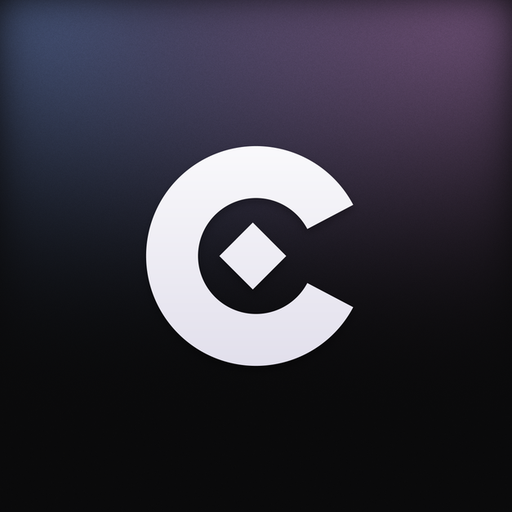
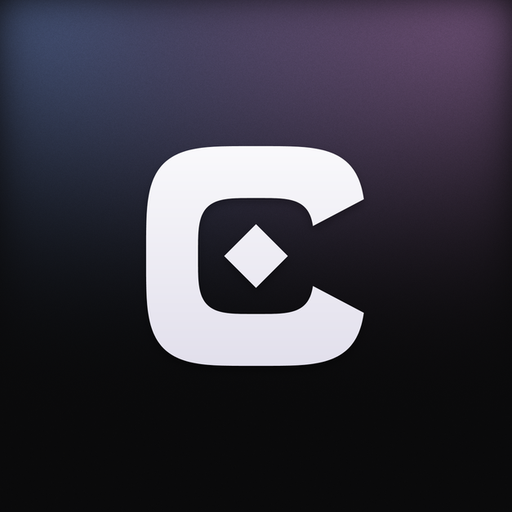
Mark: rounded-square C, even stroke, diamond dead centre
The owner wanted it not a circle and not lopsided: the C is now a squircle
ring (|x|^4+|y|^4), concentric so the stroke is even, and the diamond sits
exactly at the centre. Tests pin both.

diff --git a/src/components/__tests__/brandMark.test.tsx b/src/components/__tests__/brandMark.test.tsx
@@ -1,5 +1,5 @@
 // The logo is /logo.png; if it fails to load, BrandLogo draws the same mark inline. Both come from
-// scripts/make-icons.py: the round C (outer circle, inner circle and right-hand wedge masked out)
+// scripts/make-icons.py: the rounded-square C (outer squircle, inner squircle and right-hand wedge masked out)
 // with the diamond control point inside it. /mark.png is the same mark bare, for BrandGlyph.
 import { readdirSync, readFileSync } from 'node:fs';
 import { join } from 'node:path';
@@ -49,33 +49,42 @@ describe('BrandLogo', () => {
     expect(offenders).toEqual([]);
   });
 
-  it('falls back to the round C: outer circle, inner circle and mouth wedge', () => {
+  it('falls back to the rounded-square C: outer squircle, inner squircle and mouth wedge', () => {
     const mask = renderFallback().querySelector('mask')!;
-    const [outer, inner] = [...mask.querySelectorAll('circle')];
-    const mouth = mask.querySelector('polygon')!;
-    expect(mask.querySelectorAll('circle')).toHaveLength(2);
-    expect(mask.querySelectorAll('polygon')).toHaveLength(1);
+    const [outer, inner, mouth] = [...mask.querySelectorAll('polygon')];
+    expect(mask.querySelectorAll('polygon')).toHaveLength(3);
+    expect(mask.querySelector('circle')).toBeNull(); // not a circle
     expect([outer, inner, mouth].map((p) => p.getAttribute('fill'))).toEqual(['#fff', '#000', '#000']);
-    const c = (el: Element) => ['cx', 'cy', 'r'].map((k) => Number(el.getAttribute(k)));
-    const [ox, oy, R] = c(outer), [ix, iy, r] = c(inner);
-    // Concentric, with a real stroke all round.
-    expect([ix, iy]).toEqual([ox, oy]);
-    expect(r).toBeGreaterThan(0);
-    expect(R - r).toBeGreaterThan(R * 0.3);
-    // The mouth starts in the bowl and cuts right through the ring's right-hand side, so it is open.
+    const o = points(outer), i = points(inner);
+    // The inner squircle sits inside the outer one, so the C has a stroke all round.
+    for (const p of i) expect(insideConvex(p, o)).toBe(true);
+    // Squircle, not circle: the corner (on the diagonal) reaches well past a circle's radius.
+    const half = (Math.max(...o.map(([x]) => x)) - Math.min(...o.map(([x]) => x))) / 2;
+    const corner = Math.max(...o.map(([x, y]) => Math.hypot(x - 50, y - 50)));
+    expect(corner).toBeGreaterThan(half * 1.1);
+    // The mouth starts in the bowl and cuts right through the C's right-hand side, so it is open.
     const [apex, ...far] = points(mouth);
-    expect(Math.hypot(apex[0] - ix, apex[1] - iy)).toBeLessThan(r);
-    for (const [x] of far) expect(x).toBeGreaterThanOrEqual(ox + R);
+    expect(insideConvex(apex, i)).toBe(true);
+    const right = Math.max(...o.map(([x]) => x));
+    for (const [x] of far) expect(x).toBeGreaterThanOrEqual(right);
   });
 
-  it('puts the diamond control point inside the C', () => {
+  it('keeps the mark even: both squircles and the diamond share one centre', () => {
     const svg = renderFallback();
-    const inner = svg.querySelectorAll('mask circle')[1];
-    const [cx, cy, r] = ['cx', 'cy', 'r'].map((k) => Number(inner.getAttribute(k)));
+    const [outer, inner] = [...svg.querySelectorAll('mask polygon')].map(points);
     const diamond = points(svg.querySelector(':scope > g > polygon')!);
+    const centre = (pts: Pt[]) => {
+      const xs = pts.map(([x]) => x), ys = pts.map(([, y]) => y);
+      return [(Math.min(...xs) + Math.max(...xs)) / 2, (Math.min(...ys) + Math.max(...ys)) / 2];
+    };
+    for (const pts of [outer, inner, diamond]) {
+      const [x, y] = centre(pts);
+      expect(x).toBeCloseTo(50, 1);
+      expect(y).toBeCloseTo(50, 1);
+    }
     expect(diamond).toHaveLength(4);
     // Every corner inside the bowl, so it never touches the stroke.
-    for (const [x, y] of diamond) expect(Math.hypot(x - cx, y - cy)).toBeLessThan(r);
+    for (const p of diamond) expect(insideConvex(p, inner)).toBe(true);
   });
 });
 

diff --git a/src/components/BrandMark.tsx b/src/components/BrandMark.tsx
@@ -9,8 +9,8 @@ export const MARK_SRC = '/mark.png?v=8';
 /**
  * BrandMark — the Control Point logo slot.
  *
- * The logo is `public/logo.png` (Control Scout's v8 icon family: a round "C" cut
- * open by a crisp wedge, with the control point, a diamond, inside it; soft white on
+ * The logo is `public/logo.png` (Control Scout's v8 icon family: a rounded-square
+ * "C" cut open by a crisp wedge, with the control point, a diamond, inside it; soft white on
  * the near-black tile with the slate-to-mauve wash; drawn by scripts/make-icons.py).
  * If it fails to load, the same mark renders inline as SVG.
  *
@@ -33,9 +33,9 @@ export function BetaBadge({ className }: { className?: string }) {
   );
 }
 
-/** The mark alone (the round C and its diamond point) filling its box, in the icon's soft-white ink.
+/** The mark alone (the rounded-square C and its diamond point) filling its box, in the icon's soft-white ink.
  *  Shapes from scripts/make-icons.py (mark_shapes), scaled to the 100-unit box: the C is the outer
- *  circle with the inner circle and the right-hand wedge masked out. */
+ *  squircle with the inner squircle and the right-hand wedge masked out; the diamond is dead centre. */
 function MarkSvg() {
   const id = useId().replace(/:/g, '');
   const ink = `cp-ink-${id}`, cut = `cp-cut-${id}`;
@@ -47,14 +47,14 @@ function MarkSvg() {
           <stop offset="1" stopColor="#dcd9e8" />
         </linearGradient>
         <mask id={cut} maskUnits="userSpaceOnUse" x="0" y="0" width="100" height="100">
-          <circle cx="50" cy="50" r="27.51" fill="#fff" />
-          <circle cx="50" cy="50" r="14.51" fill="#000" />
+          <polygon points="77.51,50.00 77.39,59.94 77.04,64.00 76.44,67.02 75.60,69.45 74.51,71.47 73.13,73.13 71.47,74.51 69.45,75.60 67.02,76.44 64.00,77.04 59.94,77.39 50.00,77.51 40.06,77.39 36.00,77.04 32.98,76.44 30.55,75.60 28.53,74.51 26.87,73.13 25.49,71.47 24.40,69.45 23.56,67.02 22.96,64.00 22.61,59.94 22.49,50.00 22.61,40.06 22.96,36.00 23.56,32.98 24.40,30.55 25.49,28.53 26.87,26.87 28.53,25.49 30.55,24.40 32.98,23.56 36.00,22.96 40.06,22.61 50.00,22.49 59.94,22.61 64.00,22.96 67.02,23.56 69.45,24.40 71.47,25.49 73.13,26.87 74.51,28.53 75.60,30.55 76.44,32.98 77.04,36.00 77.39,40.06" fill="#fff" />
+          <polygon points="64.51,50.00 64.45,55.24 64.26,57.38 63.95,58.98 63.51,60.26 62.93,61.32 62.20,62.20 61.32,62.93 60.26,63.51 58.98,63.95 57.38,64.26 55.24,64.45 50.00,64.51 44.76,64.45 42.62,64.26 41.02,63.95 39.74,63.51 38.68,62.93 37.80,62.20 37.07,61.32 36.49,60.26 36.05,58.98 35.74,57.38 35.55,55.24 35.49,50.00 35.55,44.76 35.74,42.62 36.05,41.02 36.49,39.74 37.07,38.68 37.80,37.80 38.68,37.07 39.74,36.49 41.02,36.05 42.62,35.74 44.76,35.55 50.00,35.49 55.24,35.55 57.38,35.74 58.98,36.05 60.26,36.49 61.32,37.07 62.20,37.80 62.93,38.68 63.51,39.74 63.95,41.02 64.26,42.62 64.45,44.76" fill="#000" />
           <polygon points="50,50 100,23.68 100,76.32" fill="#000" />
         </mask>
       </defs>
       <g fill={`url(#${ink})`}>
         <rect width="100" height="100" mask={`url(#${cut})`} />
-        <polygon points="49.2,41.63 57.58,50 49.2,58.37 40.83,50" />
+        <polygon points="50,42.03 57.97,50 50,57.97 42.03,50" />
       </g>
     </svg>
   );

diff --git a/scripts/make-icons.py b/scripts/make-icons.py
@@ -6,8 +6,9 @@ so a re-run with no code change leaves every file byte-identical.
 The tile is a sibling of Control Scout's v8 icon (control-scout scripts/brand-icon.mjs):
 the same near-black tile with the same wash of three glows along the top edge, the
 same fine grain, and the mark in the same soft white with a soft shadow. The mark is
-Control Point's own: a round C cut open by a crisp wedge (sharp, radial ends), with the
-control point (a diamond) inside it, so it does not read as Scout's C with its needle.
+Control Point's own: a rounded-square C (a squircle ring, even stroke all round) cut open
+on the right by a crisp wedge, with the control point (a diamond) dead centre, so it does
+not read as Scout's C with its needle.
 
 Geometry is in units of 1/1254 of the tile's width (the master's size).
 
@@ -40,24 +41,36 @@ GRAIN = 0.07
 MASTER = 1254  # the master's size, as Scout's, so the grain has the same scale
 SEED = 8
 
-# The mark: a round C (a ring, opened on the right by a wedge from the centre, so its ends
-# are sharp radial cuts) with the control point, a diamond, in the middle.
+# The mark: a rounded-square C (a squircle ring, |x|^4 + |y|^4 = r^4, concentric so the
+# stroke is even, opened on the right by a wedge from the centre, so its ends are sharp
+# cuts) with the control point, a diamond, at the exact centre.
 # Units: 1/1254 of the tile.
 U = 1 / 1254
 CX = CY = 627
-OUTER = 345  # ring radii
+OUTER = 345  # squircle half-sizes
 INNER = 182
+SQUIRCLE = 4  # the exponent: 2 is a circle, higher is boxier
 MOUTH = 330  # the wedge's half-height at the tile's right edge
-POINT = (617, 627, 105)  # diamond centre x, y, half-diagonal
+POINT = (CX, CY, 100)  # diamond centre x, y, half-diagonal
 
 
-def mark_shapes() -> list[tuple[str, object, int]]:
-    """The mark in tile units (0..1254), painted in order: 255 adds, 0 cuts.
-    ("circle", radius) is centred on the tile; ("poly", points) is a polygon."""
+def squircle(r: float, n: int = 256) -> list[tuple[float, float]]:
+    """A squircle of half-size r centred on the tile, as an n-point polygon."""
+    e = 2 / SQUIRCLE
+    pts = []
+    for i in range(n):
+        t = 2 * np.pi * i / n
+        c, s = np.cos(t), np.sin(t)
+        pts.append((CX + r * np.sign(c) * abs(c) ** e, CY + r * np.sign(s) * abs(s) ** e))
+    return pts
+
+
+def mark_shapes() -> list[tuple[str, list[tuple[float, float]], int]]:
+    """The mark as polygons in tile units (0..1254), painted in order: 255 adds, 0 cuts."""
     px, py, pr = POINT
     return [
-        ("circle", OUTER, 255),
-        ("circle", INNER, 0),
+        ("poly", squircle(OUTER), 255),
+        ("poly", squircle(INNER), 0),
         ("poly", [(CX, CY), (1254, CY - MOUTH), (1254, CY + MOUTH)], 0),
         ("poly", [(px, py - pr), (px + pr, py), (px, py + pr), (px - pr, py)], 255),
     ]
@@ -71,12 +84,8 @@ def mark_mask(size: int, scale: float = 1.0, ss: int = 8) -> np.ndarray:
     d = ImageDraw.Draw(im)
     o = (1 - scale) / 2
     pt = lambda x, y: ((o + x * U * scale) * S, (o + y * U * scale) * S)
-    for kind, geo, fill in mark_shapes():
-        if kind == "circle":
-            (x0, y0), (x1, y1) = pt(CX - geo, CY - geo), pt(CX + geo, CY + geo)
-            d.ellipse([x0, y0, x1, y1], fill=fill)
-        else:
-            d.polygon([pt(x, y) for x, y in geo], fill=fill)
+    for _, geo, fill in mark_shapes():
+        d.polygon([pt(x, y) for x, y in geo], fill=fill)
     im = im.resize((size, size), Image.BOX)
     return np.asarray(im, dtype=np.float32) / 255
 

diff --git a/public/BRAND.md b/public/BRAND.md
@@ -1,7 +1,7 @@
 # Brand logo
 
-The logo is a round "C" (a ring cut open on the right by a wedge, so its ends are
-crisp radial cuts) with the control point, a diamond, inside it, in soft white on a near-black
+The logo is a rounded-square "C" (a squircle ring with an even stroke, cut open on
+the right by a wedge so its ends are crisp) with the control point, a diamond, dead centre, in soft white on a near-black
 tile with a wash of colour across the top. It shares Control Scout's v8 tile, wash,
 grain and ink, but the mark is its own: a diamond point where Scout has a needle.
 
